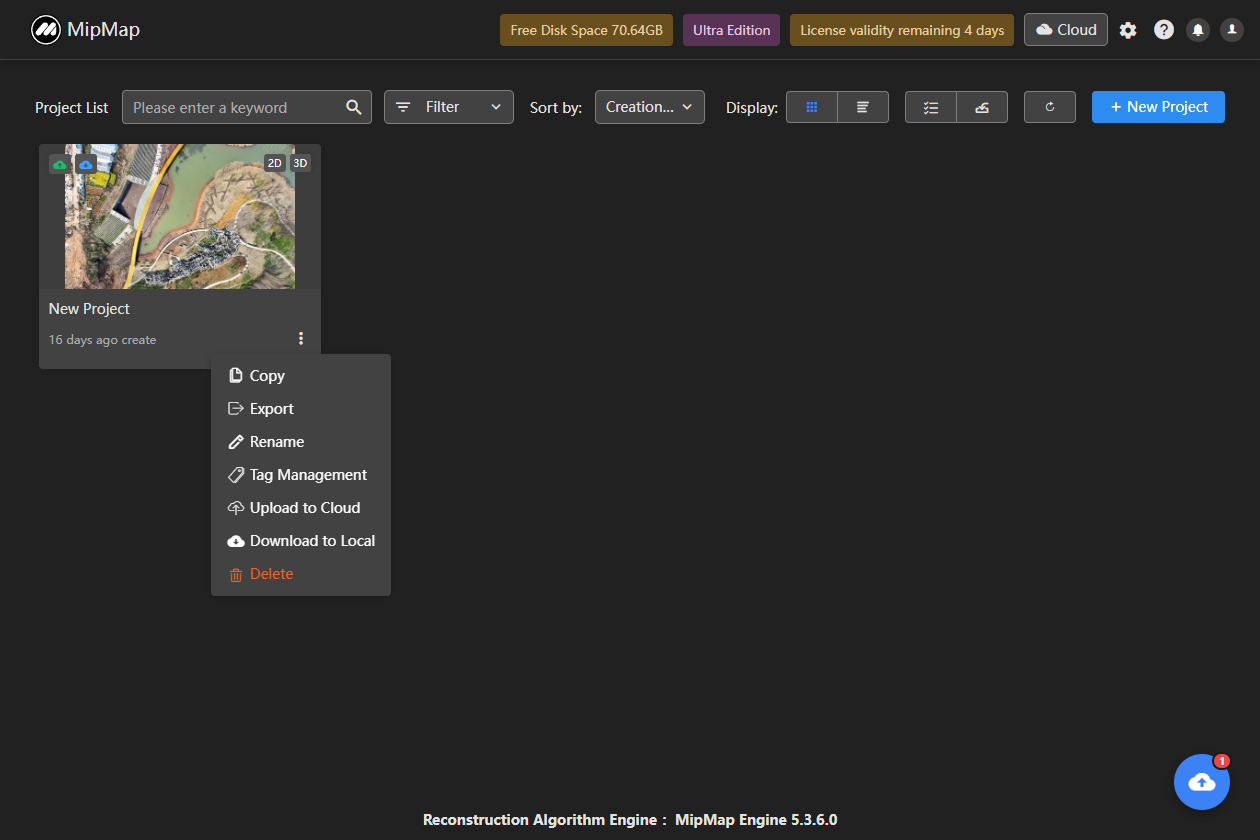
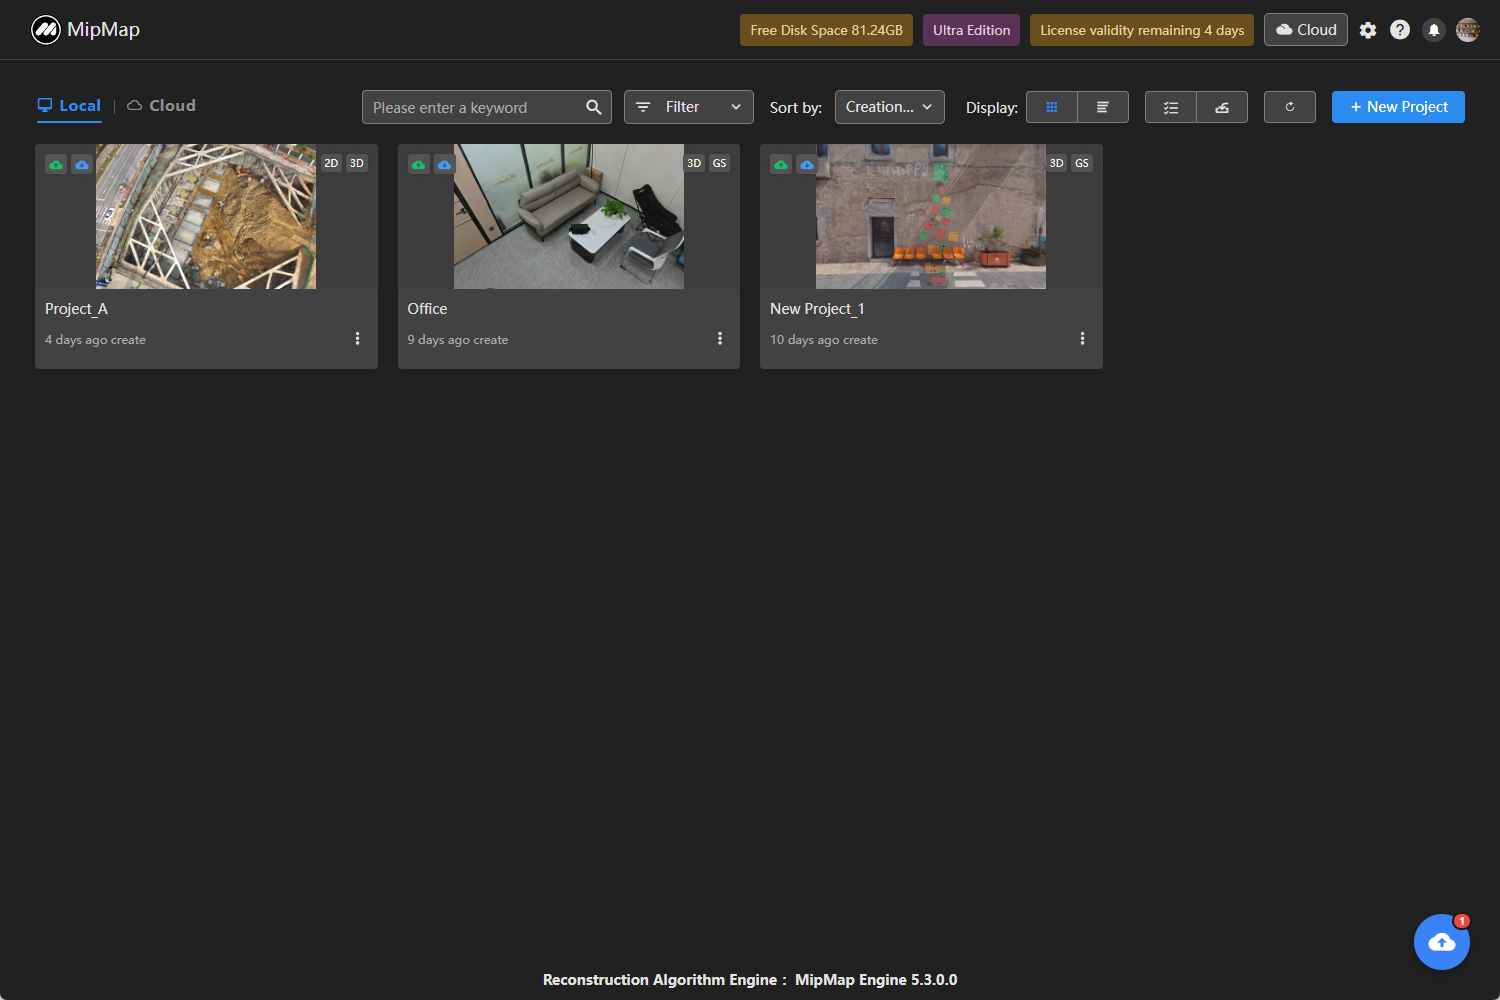
3.3NA/AS终版

diff --git a/docs/zh-Hans/4.Lidar/AerotriangulationEdit.md b/docs/zh-Hans/4.Lidar/AerotriangulationEdit.md
@@ -1,0 +1,45 @@
+---
+title: 空三编辑
+sidebar_position: 5
+---
+
+## 空三编辑
+
+>[!tip] 作用：
+可删除空三匹配错误的照片及连接点，避免错误数据影响三维重建的精度和最终成果。
+
+
+1 . 导入激光雷达数据后，点击 **开始空三** 启动空中三角测量。
+
+![](/img/cn-img/开始空三3.png)
+
+2 . 空三完成后，点击图标 ![](/img/en-img/editatlogo.png)  打开空三编辑面板。  
+
+
+![](/img/cn-img/空三编辑2.png)
+
+3 . 若蓝色相机视锥显示过大或过小，可将鼠标悬停在图标 ![](/img/en-img/camsize.png) 上调整相机显示大小。可以直接输入数值，或滚动鼠标滚轮以获得合适的视图。
+
+![](/img/cn-img/相机大小.png)
+
+
+
+4 . 左键单击选择匹配存在错误的照片或连接点，被选中的相机及其对应的连接点将变为红色，按键盘上的 **Delete** 键可进行删除。
+
+::: tip 
+空三匹配错误的照片是指在空中三角测量过程中，无法解算出与实际采集轨迹一致的相机位姿的照片。
+
+在软件中，这些照片表现为明显偏离整体采集路径的蓝色相机视锥，其位姿错误、角度异常，无法与相邻照片建立正确的重叠与连接关系。
+
+**示例：**
+
+![](/img/cn-img/atedit.png)
+:::
+
+
+5 . 编辑完成后，按 **ESC** 退出空三编辑器。此时将弹出确认对话框：
+- **应用**：保存删除操作并退出
+- **不应用**：放弃删除操作并退出
+- **取消**：继续编辑
+
+![](/img/cn-img/退出空三编辑2.png)

diff --git a/docs/zh-Hans/3.Visiblelight/AerotriangulationEdit.md b/docs/zh-Hans/3.Visiblelight/AerotriangulationEdit.md
@@ -24,12 +24,12 @@ sidebar_position: 6
 
 
 
-4 . 左键单击选择匹配存在错误的相机或连接点，被选中的相机及其对应的连接点将变为红色。按键盘上的 **Delete** 键删除选中的错误相机及匹配点数据。
+4 . 左键单击选择匹配存在错误的照片或连接点，被选中的相机及其对应的连接点将变为红色，按键盘上的 **Delete** 键可进行删除。
 
 ::: tip 
-空三匹配错误的影像是指在空中三角测量过程中，无法解算出与实际采集轨迹一致的相机位姿的影像。
+空三匹配错误的照片是指在空中三角测量过程中，无法解算出与实际采集轨迹一致的相机位姿的照片。
 
-在软件中，这些影像表现为明显偏离整体采集路径的蓝色相机视锥，其位姿错误、角度异常，无法与相邻影像建立正确的重叠与连接关系。
+在软件中，这些照片表现为明显偏离整体采集路径的蓝色相机视锥，其位姿错误、角度异常，无法与相邻照片建立正确的重叠与连接关系。
 
 **示例：**
 
@@ -37,7 +37,7 @@ sidebar_position: 6
 :::
 
 
-5 . 清理完成后，按 **ESC** 退出空三编辑器。此时将弹出确认对话框：
+5 . 编辑完成后，按 **ESC** 退出空三编辑器。此时将弹出确认对话框：
 - **应用**：保存删除操作并退出
 - **不应用**：放弃删除操作并退出
 - **取消**：继续编辑

diff --git a/docs/en/2.InterfaceIntroduction/ProjectRelated.md b/docs/en/2.InterfaceIntroduction/ProjectRelated.md
@@ -9,6 +9,15 @@ sidebar_position: 2
 
 ---
 
+### Local/Cloud
+
+![](/img/en-img/localandcloud.png)
+
+- **Local** : Click Local, and only projects stored locally will be displayed on the main interface.
+- **Cloud** : Click Cloud, and only projects uploaded to the cloud space will be displayed on the main interface.
+
+---
+
 ### Project Search
 
 ![](/img/en-img/list1.png) Enter the full project name or keywords to search for projects.
@@ -17,14 +26,16 @@ sidebar_position: 2
 
 ### Project Filter
 
-![](/img/en-img/filter.png) Click the filter drop-down box to select filter conditions.
+> [!tip]The project filter bar will only appear after tags are added in project options.
 
-- **Local Project** : Display projects stored locally.
-- **Cloud Project** : Display projects uploaded to cloud storage.
-- **Tag** : Display projects containing the selected tags.
-- **Reset** : Reset all selected filter conditions.
+![](/img/en-img/addtag.png)
 
-![](/img/en-img/filter2.png)
+![](/img/en-img/filter.png)Click the filter dropdown to select filter tags.
+
+![](/img/en-img/tag.png)
+
+- **Tags** ： Click the corresponding tag, and only projects with the selected tag will be displayed on the main interface.
+- **Reset** ：Clear the selected filter conditions.
 
 ---
 

diff --git a/docs/zh-Hans/2.InterfaceIntroduction/ProjectRelated.md b/docs/zh-Hans/2.InterfaceIntroduction/ProjectRelated.md
@@ -9,6 +9,15 @@ sidebar_position: 2
 
 ---
 
+### 本地/云端
+
+![](/img/cn-img/本地云端.png)
+
+- **本地** ：点击本地，主界面只显示本地存在的项目。
+- **云端** ：点击云端，主界面只显示已上传到云空间的项目。
+
+---
+
 ### 项目搜索
 
 ![](/img/cn-img/image28.png)可输入项目完整名称或关键字搜索项目。
@@ -17,14 +26,16 @@ sidebar_position: 2
 
 ### 项目过滤
 
-![](/img/cn-img/image29.png)点击过滤下拉框，可选择过滤显示条件。
+> [!tip]需要先在项目选项中添加标签才会显示项目过滤栏。
 
-- **本地项目** ：点击显示本地存在的项目。
-- **云端项目** ：点击显示已上传到云空间的项目。
-- **标签** ：点击显示包含所选标签的项目。
-- **清除所有** ：清除所选过滤条件。
+![](/img/cn-img/标签管理.png)
 
-![](/img/cn-img/过滤.png)
+![](/img/cn-img/image29.png)点击过滤下拉框，可选择过滤标签。
+
+![](/img/cn-img/标签过滤.png)
+
+- **标签** ：点击相应标签，主页只显示包含所选标签的项目。
+- **重置** ：清除所选过滤条件。
 
 ---
 

diff --git a/docs/en/3.Visiblelight/AerotriangulationEdit.md b/docs/en/3.Visiblelight/AerotriangulationEdit.md
@@ -14,7 +14,7 @@ sidebar_position: 5
 
 2 . Once aerial triangulation finishes, click the icon ![](/img/en-img/editatlogo.png)to open the aerotriangulation editing panel.
 
-![](/img/en-img/editat.png)
+![](/img/en-img/editat2.png)
 
 3 . If the blue camera frustums appear too large or too small, hover your mouse over the icon ![](/img/en-img/camsize.png)to adjust the camera display size. You may enter a value directly or scroll the mouse wheel to get a suitable view.
 
@@ -41,4 +41,4 @@ In the software, they are visualized as blue camera frustums that deviate substa
 - **Don't apply** : Discard deletions and exit
 - **Cancel** : Stay in the editor
 
-![](/img/en-img/editcamtip.png)
+![](/img/en-img/editcamtip2.png)

diff --git a/docs/zh-Hans/4.Lidar/3DResults.md b/docs/zh-Hans/4.Lidar/3DResults.md
@@ -1,6 +1,6 @@
 ---
 title: 三维成果
-sidebar_position: 6
+sidebar_position: 7
 ---
 
 ## 三维成果

diff --git a/docs/zh-Hans/4.Lidar/ReconstructionSeting.md b/docs/zh-Hans/4.Lidar/ReconstructionSeting.md
@@ -1,6 +1,6 @@
 ---
 title: 重建设置
-sidebar_position: 5
+sidebar_position: 6
 ---
 
 ## 重建设置
